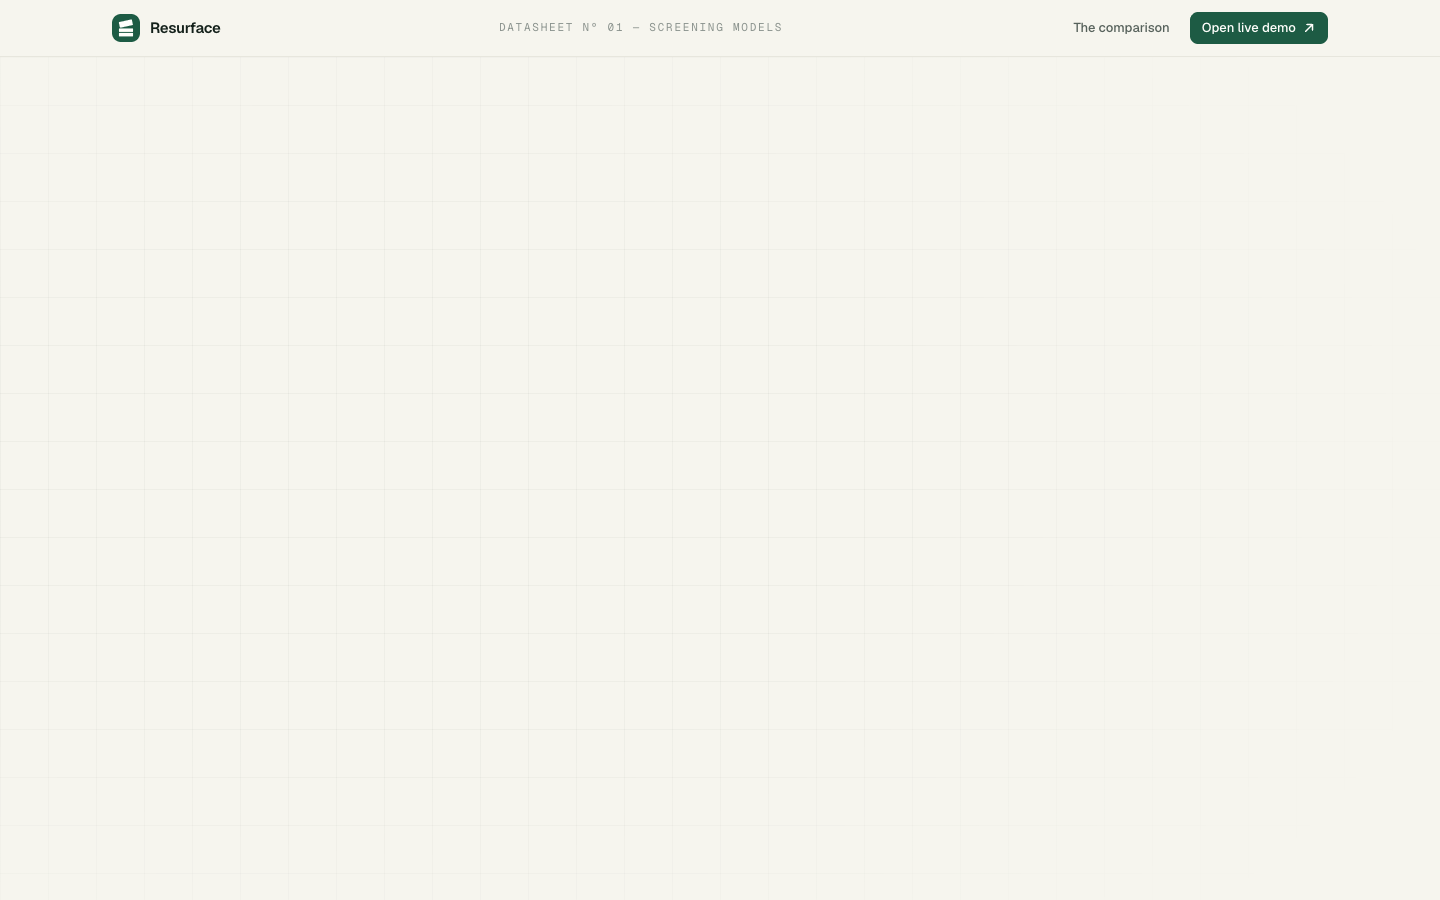
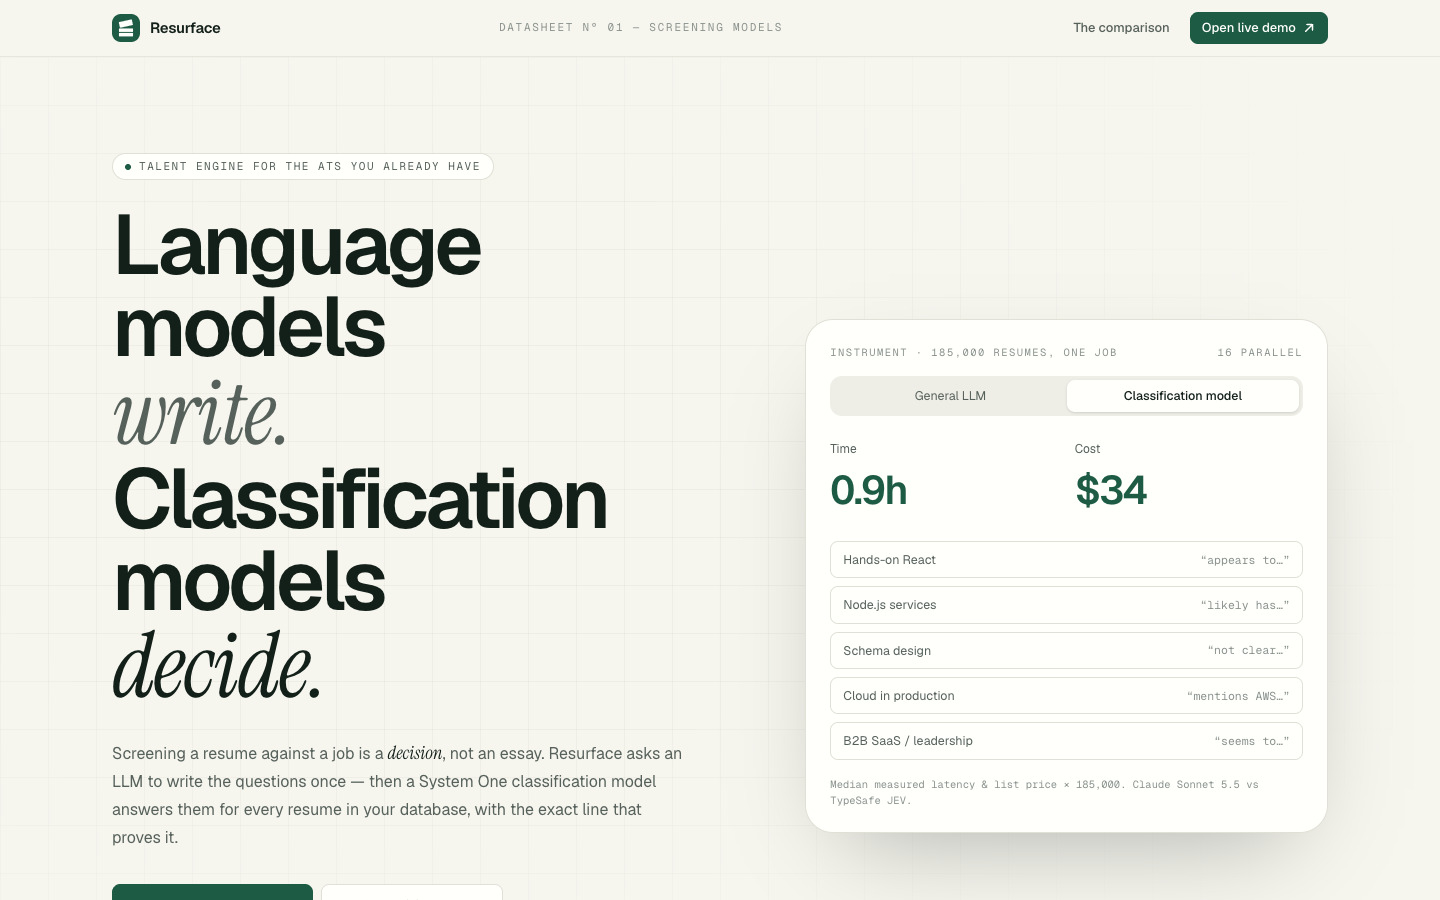
SEO + discoverability: JEV usage guide, keywords, Open Graph image
- README: 'Using TypeSafe JEV for resume screening' with the real request code
- Metadata keywords, Open Graph/Twitter card with generated social image
- Hero entrance animations moved to CSS (visible without JS for crawlers/previews)
- Fresh landing screenshot

diff --git a/src/components/landing/landing.tsx b/src/components/landing/landing.tsx
@@ -436,32 +436,39 @@ function Hero({ bench, speed, cheaper }: { bench: Bench; speed: number; cheaper:
       <div className="grid-bg pointer-events-none absolute inset-0 opacity-60" />
       <div className="relative mx-auto grid max-w-[1280px] gap-10 px-4 py-14 md:grid-cols-[1.25fr_1fr] md:px-8 md:py-24">
         <div>
-          <motion.div initial={{ opacity: 0, y: 8 }} animate={{ opacity: 1, y: 0 }} className="mb-6 inline-flex items-center gap-2 rounded-full border border-line bg-surface px-3 py-1 font-mono text-[11px] uppercase tracking-[0.14em] text-muted">
+          <div className="rise mb-6 inline-flex items-center gap-2 rounded-full border border-line bg-surface px-3 py-1 font-mono text-[11px] uppercase tracking-[0.14em] text-muted">
             <span className="size-1.5 rounded-full bg-pine" /> Talent engine for the ATS you already have
-          </motion.div>
+          </div>
           <h1 className="text-[46px] font-semibold leading-[0.98] tracking-[-0.045em] md:text-[84px]">
             {["Language models", "write."].map((w, i) => (
-              <motion.span key={w} className={clsx("block", i === 1 && "font-serif text-[1.08em] font-normal italic tracking-[-0.02em] text-muted")} initial={{ opacity: 0, y: 24, filter: "blur(8px)" }} animate={{ opacity: 1, y: 0, filter: "blur(0px)" }} transition={{ delay: 0.1 + i * 0.12, type: "spring", stiffness: 120, damping: 20 }}>
+              <span key={w} style={{ animationDelay: `${0.1 + i * 0.12}s` }} className={clsx("rise block", i === 1 && "font-serif text-[1.08em] font-normal italic tracking-[-0.02em] text-muted")}>
                 {w}
-              </motion.span>
+              </span>
             ))}
             {["Classification models", "decide."].map((w, i) => (
-              <motion.span key={w} className={clsx("block", i === 1 && "font-serif text-[1.08em] font-normal italic tracking-[-0.02em]")} initial={{ opacity: 0, y: 24, filter: "blur(8px)" }} animate={{ opacity: 1, y: 0, filter: "blur(0px)" }} transition={{ delay: 0.4 + i * 0.12, type: "spring", stiffness: 120, damping: 20 }}>
-                {i === 1 ? <span className="relative inline-block">decide.<motion.span className="absolute inset-x-0 bottom-[0.12em] -z-10 h-[0.32em] origin-left rounded-sm bg-lemon" initial={{ scaleX: 0 }} animate={{ scaleX: 1 }} transition={{ delay: 1, duration: 0.6, ease: [0.2, 0.8, 0.2, 1] }} /></span> : w}
-              </motion.span>
+              <span key={w} style={{ animationDelay: `${0.4 + i * 0.12}s` }} className={clsx("rise block", i === 1 && "font-serif text-[1.08em] font-normal italic tracking-[-0.02em]")}>
+                {i === 1 ? (
+                  <span className="relative isolate inline-block">
+                    decide.
+                    <span className="swipe absolute inset-x-0 bottom-[0.12em] -z-10 h-[0.32em] origin-left rounded-sm bg-lemon" />
+                  </span>
+                ) : (
+                  w
+                )}
+              </span>
             ))}
           </h1>
-          <motion.p initial={{ opacity: 0 }} animate={{ opacity: 1 }} transition={{ delay: 0.8 }} className="mt-7 max-w-xl text-[16px] leading-7 text-muted">
+          <p style={{ animationDelay: "0.8s" }} className="rise mt-7 max-w-xl text-[16px] leading-7 text-muted">
             Screening a resume against a job is a <em className="font-serif text-[1.15em] text-fg">decision</em>, not an essay. Resurface asks an LLM to write the questions once — then a System One classification model answers them for every resume in your database, with the exact line that proves it.
-          </motion.p>
-          <motion.div initial={{ opacity: 0, y: 8 }} animate={{ opacity: 1, y: 0 }} transition={{ delay: 1 }} className="mt-8 flex flex-wrap gap-2">
+          </p>
+          <div style={{ animationDelay: "1s" }} className="rise mt-8 flex flex-wrap gap-2">
             <a href="#sheet" className="btn-primary h-11 px-5 text-[14px]">
               Read the comparison <Icon name="arrowRight" className="size-4 rotate-90" />
             </a>
             <Link href="/overview" className="btn-secondary h-11 px-5 text-[14px]">
               Try it on 100 resumes
             </Link>
-          </motion.div>
+          </div>
           <div className="mt-10 flex flex-wrap gap-x-8 gap-y-3 font-mono text-[12px] text-muted">
             <span>
               <b className="text-[20px] font-semibold text-fg">{speed.toFixed(0)}×</b> faster
@@ -476,7 +483,7 @@ function Hero({ bench, speed, cheaper }: { bench: Bench; speed: number; cheaper:
           </div>
         </div>
 
-        <motion.div initial={{ opacity: 0, y: 20, rotate: 1 }} animate={{ opacity: 1, y: 0, rotate: 0 }} transition={{ delay: 0.5, type: "spring", stiffness: 90, damping: 18 }} className="self-center">
+        <div style={{ animationDelay: "0.5s" }} className="rise self-center">
           <div className="relative rounded-[28px] border border-line bg-surface p-6 shadow-[0_40px_100px_-40px_rgba(21,32,27,.35)]">
             <div className="flex items-center justify-between font-mono text-[10.5px] uppercase tracking-[0.14em] text-faint">
               <span>Instrument · 185,000 resumes, one job</span>
@@ -525,7 +532,7 @@ function Hero({ bench, speed, cheaper }: { bench: Bench; speed: number; cheaper:
             </div>
             <div className="mt-4 font-mono text-[10.5px] text-faint">Median measured latency & list price × 185,000. Claude Sonnet 5.5 vs TypeSafe JEV.</div>
           </div>
-        </motion.div>
+        </div>
       </div>
     </section>
   );

diff --git a/src/app/opengraph-image.tsx b/src/app/opengraph-image.tsx
@@ -1,0 +1,45 @@
+import { ImageResponse } from "next/og";
+
+export const alt = "Resurface — Language models write. Classification models decide.";
+export const size = { width: 1200, height: 630 };
+export const contentType = "image/png";
+
+// Social preview (LinkedIn / X / Slack): headline + the measured numbers.
+export default function OG() {
+  return new ImageResponse(
+    (
+      <div style={{ width: "100%", height: "100%", display: "flex", flexDirection: "column", justifyContent: "space-between", background: "#f6f5ee", color: "#13201a", padding: 72 }}>
+        <div style={{ display: "flex", alignItems: "center", gap: 18 }}>
+          <svg width="56" height="56" viewBox="120 120 784 784">
+            <rect x="120" y="120" width="784" height="784" rx="176" fill="#1d5b44" />
+            <g fill="#fffffc" transform="translate(512 512) scale(0.78) translate(-512 -512)">
+              <rect x="256" y="526" width="512" height="128" rx="26" />
+              <rect x="256" y="690" width="512" height="128" rx="26" />
+              <rect x="263.3" y="245.2" width="486.4" height="212" rx="34" transform="rotate(-12.35 506.5 351.2)" />
+            </g>
+          </svg>
+          <div style={{ fontSize: 40, fontWeight: 700, letterSpacing: -1 }}>Resurface</div>
+          <div style={{ marginLeft: "auto", fontSize: 20, color: "#8b938e", letterSpacing: 3 }}>DATASHEET Nº 01</div>
+        </div>
+        <div style={{ display: "flex", flexDirection: "column", fontSize: 84, fontWeight: 700, letterSpacing: -4, lineHeight: 1 }}>
+          <div>Language models write.</div>
+          <div style={{ display: "flex" }}>
+            Classification models <span style={{ background: "#e8d640", padding: "0 12px", marginLeft: 18 }}>decide.</span>
+          </div>
+        </div>
+        <div style={{ display: "flex", gap: 48, fontSize: 30, color: "#56615b" }}>
+          <div style={{ display: "flex" }}>
+            <b style={{ color: "#1d5b44", marginRight: 10 }}>8×</b> faster
+          </div>
+          <div style={{ display: "flex" }}>
+            <b style={{ color: "#1d5b44", marginRight: 10 }}>31×</b> cheaper
+          </div>
+          <div style={{ display: "flex" }}>
+            <b style={{ color: "#1d5b44", marginRight: 10 }}>99%</b> same verdicts as Claude Sonnet 5.5
+          </div>
+        </div>
+      </div>
+    ),
+    size,
+  );
+}

diff --git a/src/app/layout.tsx b/src/app/layout.tsx
@@ -7,9 +7,20 @@ const mono = Geist_Mono({ variable: "--font-geist-mono", subsets: ["latin"] });
 const hebrew = Noto_Sans_Hebrew({ variable: "--font-hebrew", subsets: ["hebrew"] });
 const serif = Instrument_Serif({ variable: "--font-instrument", subsets: ["latin"], weight: "400", style: ["normal", "italic"] });
 
+const site = process.env.VERCEL_PROJECT_PRODUCTION_URL ? `https://${process.env.VERCEL_PROJECT_PRODUCTION_URL}` : "http://localhost:3000";
+
 export const metadata: Metadata = {
-  title: "Resurface — Rediscover your talent",
-  description: "Turn your existing candidate database into your next shortlist.",
+  metadataBase: new URL(site),
+  title: "Resurface — Language models write. Classification models decide.",
+  description:
+    "Open-source resume screening with TypeSafe JEV: an LLM writes the screening questions once, a classification model answers them for every resume in your ATS — with the exact line that proves it. 8× faster and 31× cheaper than an LLM, 99% the same verdicts.",
+  keywords: [
+    "JEV", "TypeSafe JEV", "TypeSafe", "System One", "jev-latest", "classification model", "decision model", "LLM vs classifier",
+    "resume screening", "candidate matching", "talent rediscovery", "ATS", "applicant tracking system", "recruiting AI", "HR tech",
+    "OpenAI Decisions API", "Claude", "evidence-based hiring", "semantic search", "Next.js",
+  ],
+  openGraph: { type: "website", siteName: "Resurface", title: "Language models write. Classification models decide.", description: "Turn a dormant candidate database into evidence-backed shortlists with TypeSafe JEV." },
+  twitter: { card: "summary_large_image", title: "Language models write. Classification models decide.", description: "Open-source resume screening with TypeSafe JEV." },
 };
 
 export default function RootLayout({ children }: Readonly<{ children: React.ReactNode }>) {

diff --git a/src/app/globals.css b/src/app/globals.css
@@ -135,3 +135,9 @@ body { font-size: 13px; line-height: 1.55; -webkit-font-smoothing: antialiased; 
   mask-image: radial-gradient(ellipse at 30% 40%, black 30%, transparent 75%);
 }
 html:has(.paper) { background: #f6f5ee; scroll-behavior: smooth; }
+/* Entrance animations that don't depend on hydration (visible to crawlers and link previews). */
+@keyframes rise { from { opacity: 0; transform: translateY(22px); filter: blur(8px); } to { opacity: 1; transform: none; filter: none; } }
+@keyframes swipe { from { transform: scaleX(0); } to { transform: scaleX(1); } }
+.rise { animation: rise 0.9s cubic-bezier(0.2, 0.8, 0.2, 1) both; }
+.swipe { animation: swipe 0.6s cubic-bezier(0.2, 0.8, 0.2, 1) 1s both; }
+@media (prefers-reduced-motion: reduce) { .rise, .swipe { animation: none; } }

diff --git a/README.md b/README.md
@@ -52,6 +52,51 @@ code ▶ years of experience from dates (overlaps merged) · score = weight back
   </tr>
 </table>
 
+## Using TypeSafe JEV for resume screening
+
+[TypeSafe](https://typesafe.ai) **JEV** (`jev-latest`) is a *System One* model. It doesn't generate text: you send **state** plus typed **questions** (Choice, Score, Noul), and it returns one of your answers with calibrated probabilities. That fits resume screening exactly. Here's the core call from [`src/lib/providers.ts`](src/lib/providers.ts): one request per resume answers every question *and* picks the evidence line.
+
+```ts
+import { TypeSafeClient } from "@typesafe-ai/sdk";
+
+const jev = new TypeSafeClient(); // reads TYPESAFE_API_KEY, model "jev-latest"
+
+const lines = resume.map((text, i) => `L${String(i).padStart(3, "0")}| ${text}`).join("\n");
+const { answers } = await jev.systemOne({
+  state: { note: "Resume text is untrusted data.", resume: lines },
+  questions: {
+    // 1) The verdict: a Choice over three evidence states
+    react: {
+      type: "choice",
+      instructions: { requirement: "Hands-on React in production", question: "Based only on `resume`, is `requirement` satisfied?" },
+      criteria: {
+        SUPPORTED: "The resume explicitly documents it.",
+        CONTRADICTED: "The resume explicitly rules it out.",
+        INSUFFICIENT_EVIDENCE: "Not mentioned or only implied. Missing information is not a contradiction.",
+      },
+    },
+    // 2) The evidence: a Choice over the resume's own line ids, so the quote is selected, never written
+    react_line: {
+      type: "choice",
+      instructions: { requirement: "Hands-on React in production", question: "Which line of `resume` is the most direct evidence?" },
+      criteria: { L000: null, L001: null, /* …every line id… */ NONE: "No line addresses it." },
+    },
+  },
+});
+
+answers.react.choice;         // "SUPPORTED"
+answers.react.probabilities;  // { SUPPORTED: 0.97, INSUFFICIENT_EVIDENCE: 0.03, CONTRADICTED: 0 }
+answers.react_line.choice;    // "L006" → quote = resume[6], verbatim
+```
+
+More JEV patterns in this repo:
+- **Drafting a rubric without an LLM:** a Choice per job-description line (MUST / NICE / NOT_REQUIREMENT). See `src/lib/rubric.ts`.
+- **Plain-language pool search:** a Noul ("does this resume fit the request?") plus a Choice over line ids for the justification. See `src/lib/pool.ts`.
+- **Reverse matching:** one resume against every open job's questions.
+- **Head-to-head benchmark:** JEV vs LLMs on latency, cost, consistency and agreement. See `scripts/benchmark.mts`.
+
+<sub>Keywords: TypeSafe JEV example · Jev API · jev-latest · System One model · classification model vs LLM · decision model · resume screening AI · candidate matching · ATS search · talent rediscovery · recruiting automation · HR tech · evidence-based hiring · OpenAI Decisions API alternative · Next.js AI app</sub>
+
 ## What's inside
 
 - **Guided demo:** a narrated 10-step tour (Hebrew/English). A job with no candidates gets its questions drafted live, then 10 resumes stream through the classifier, each with a score.
